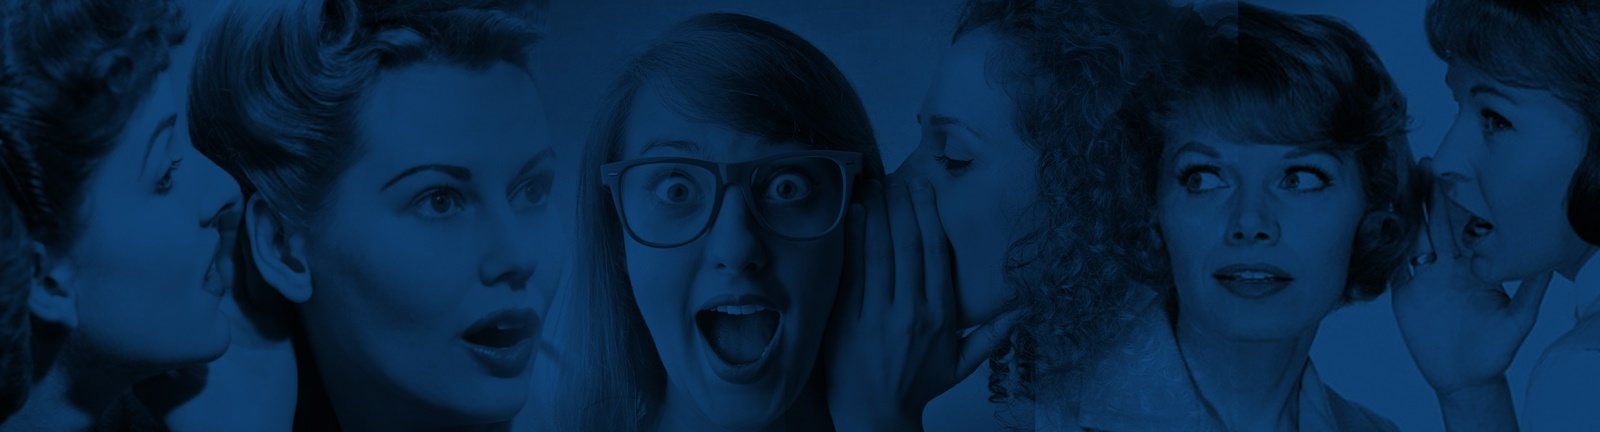
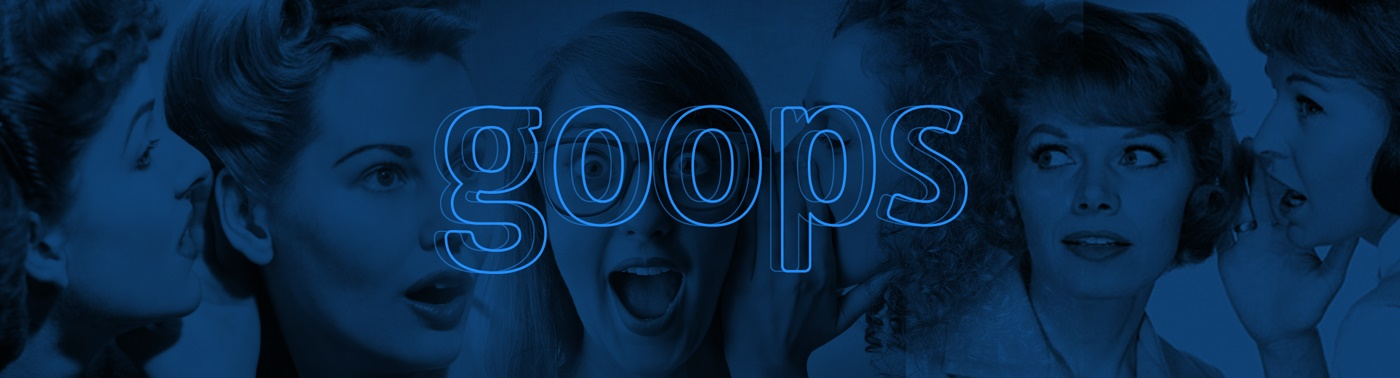
done

Changed region(s): [[0.3071, 0.2619, 0.7064, 0.7275], [0.645, 0.2619, 0.6757, 0.291], [0.4914, 0.582, 0.5221, 0.6111]]

diff --git a/sass/main.scss b/sass/main.scss
@@ -169,6 +169,9 @@ $space-100: 100px;
 .sexpage-btn {
     background-color: $sex-color;
 }
+.goops-btn {
+  background-color: $brand-blue-darker;
+}
 
 .btn {
     height: 30px;
@@ -193,6 +196,9 @@ $space-100: 100px;
     @include button-variant(white,
     $brand-blue,
     $brand-blue);
+}
+.btn-dark-blue {
+  @include button-variant(white, $brand-blue-darker, $brand-blue-darker);
 }
 
 .btn-green {
@@ -332,6 +338,7 @@ img.doneLoading {
             border: 5px solid $brand-green;
         }
     }
+    .most-viewed { border: 5px solid $brand-green !important; }
 }
 
 //confession-page
@@ -367,6 +374,25 @@ img.doneLoading {
             background-color: #9702ec;
         }
     }
+}
+
+// goops-page
+.put-me-goops {
+    .title {
+        color: $brand-blue-darker;
+    }
+    .borderme {
+        border: 5px solid $brand-blue-darker !important;
+    }
+    .color-me {
+        @extend.btn-dark-blue;
+    }
+    .border-me-hov {
+        &:hover:after {
+            border: 5px solid $brand-blue-darker;
+        }
+    }
+    .most-viewed { border: 5px solid $brand-blue-darker !important; }
 }
 
 ul {

diff --git a/views/page-header/goopshead.html b/views/page-header/goopshead.html
@@ -1,0 +1,10 @@
+<div class="heading">
+  <div class="img-holder">
+    <img alt="" class="img-responsive" src="img/goops-banner.jpg">
+  </div>
+  <!-- <div class="back-img">
+    <div class="text-inside fontdo">
+      <h2>Goops</h2>
+    </div>
+  </div> -->
+</div>

diff --git a/views/header.html b/views/header.html
@@ -34,7 +34,7 @@
                 <a href="#/queries">Love Queries</a>
               </li>
               <li>
-                <a href="#">Goops</a>
+                <a href="#/goops">Goops</a>
               </li>
             </ul>
           </nav>
